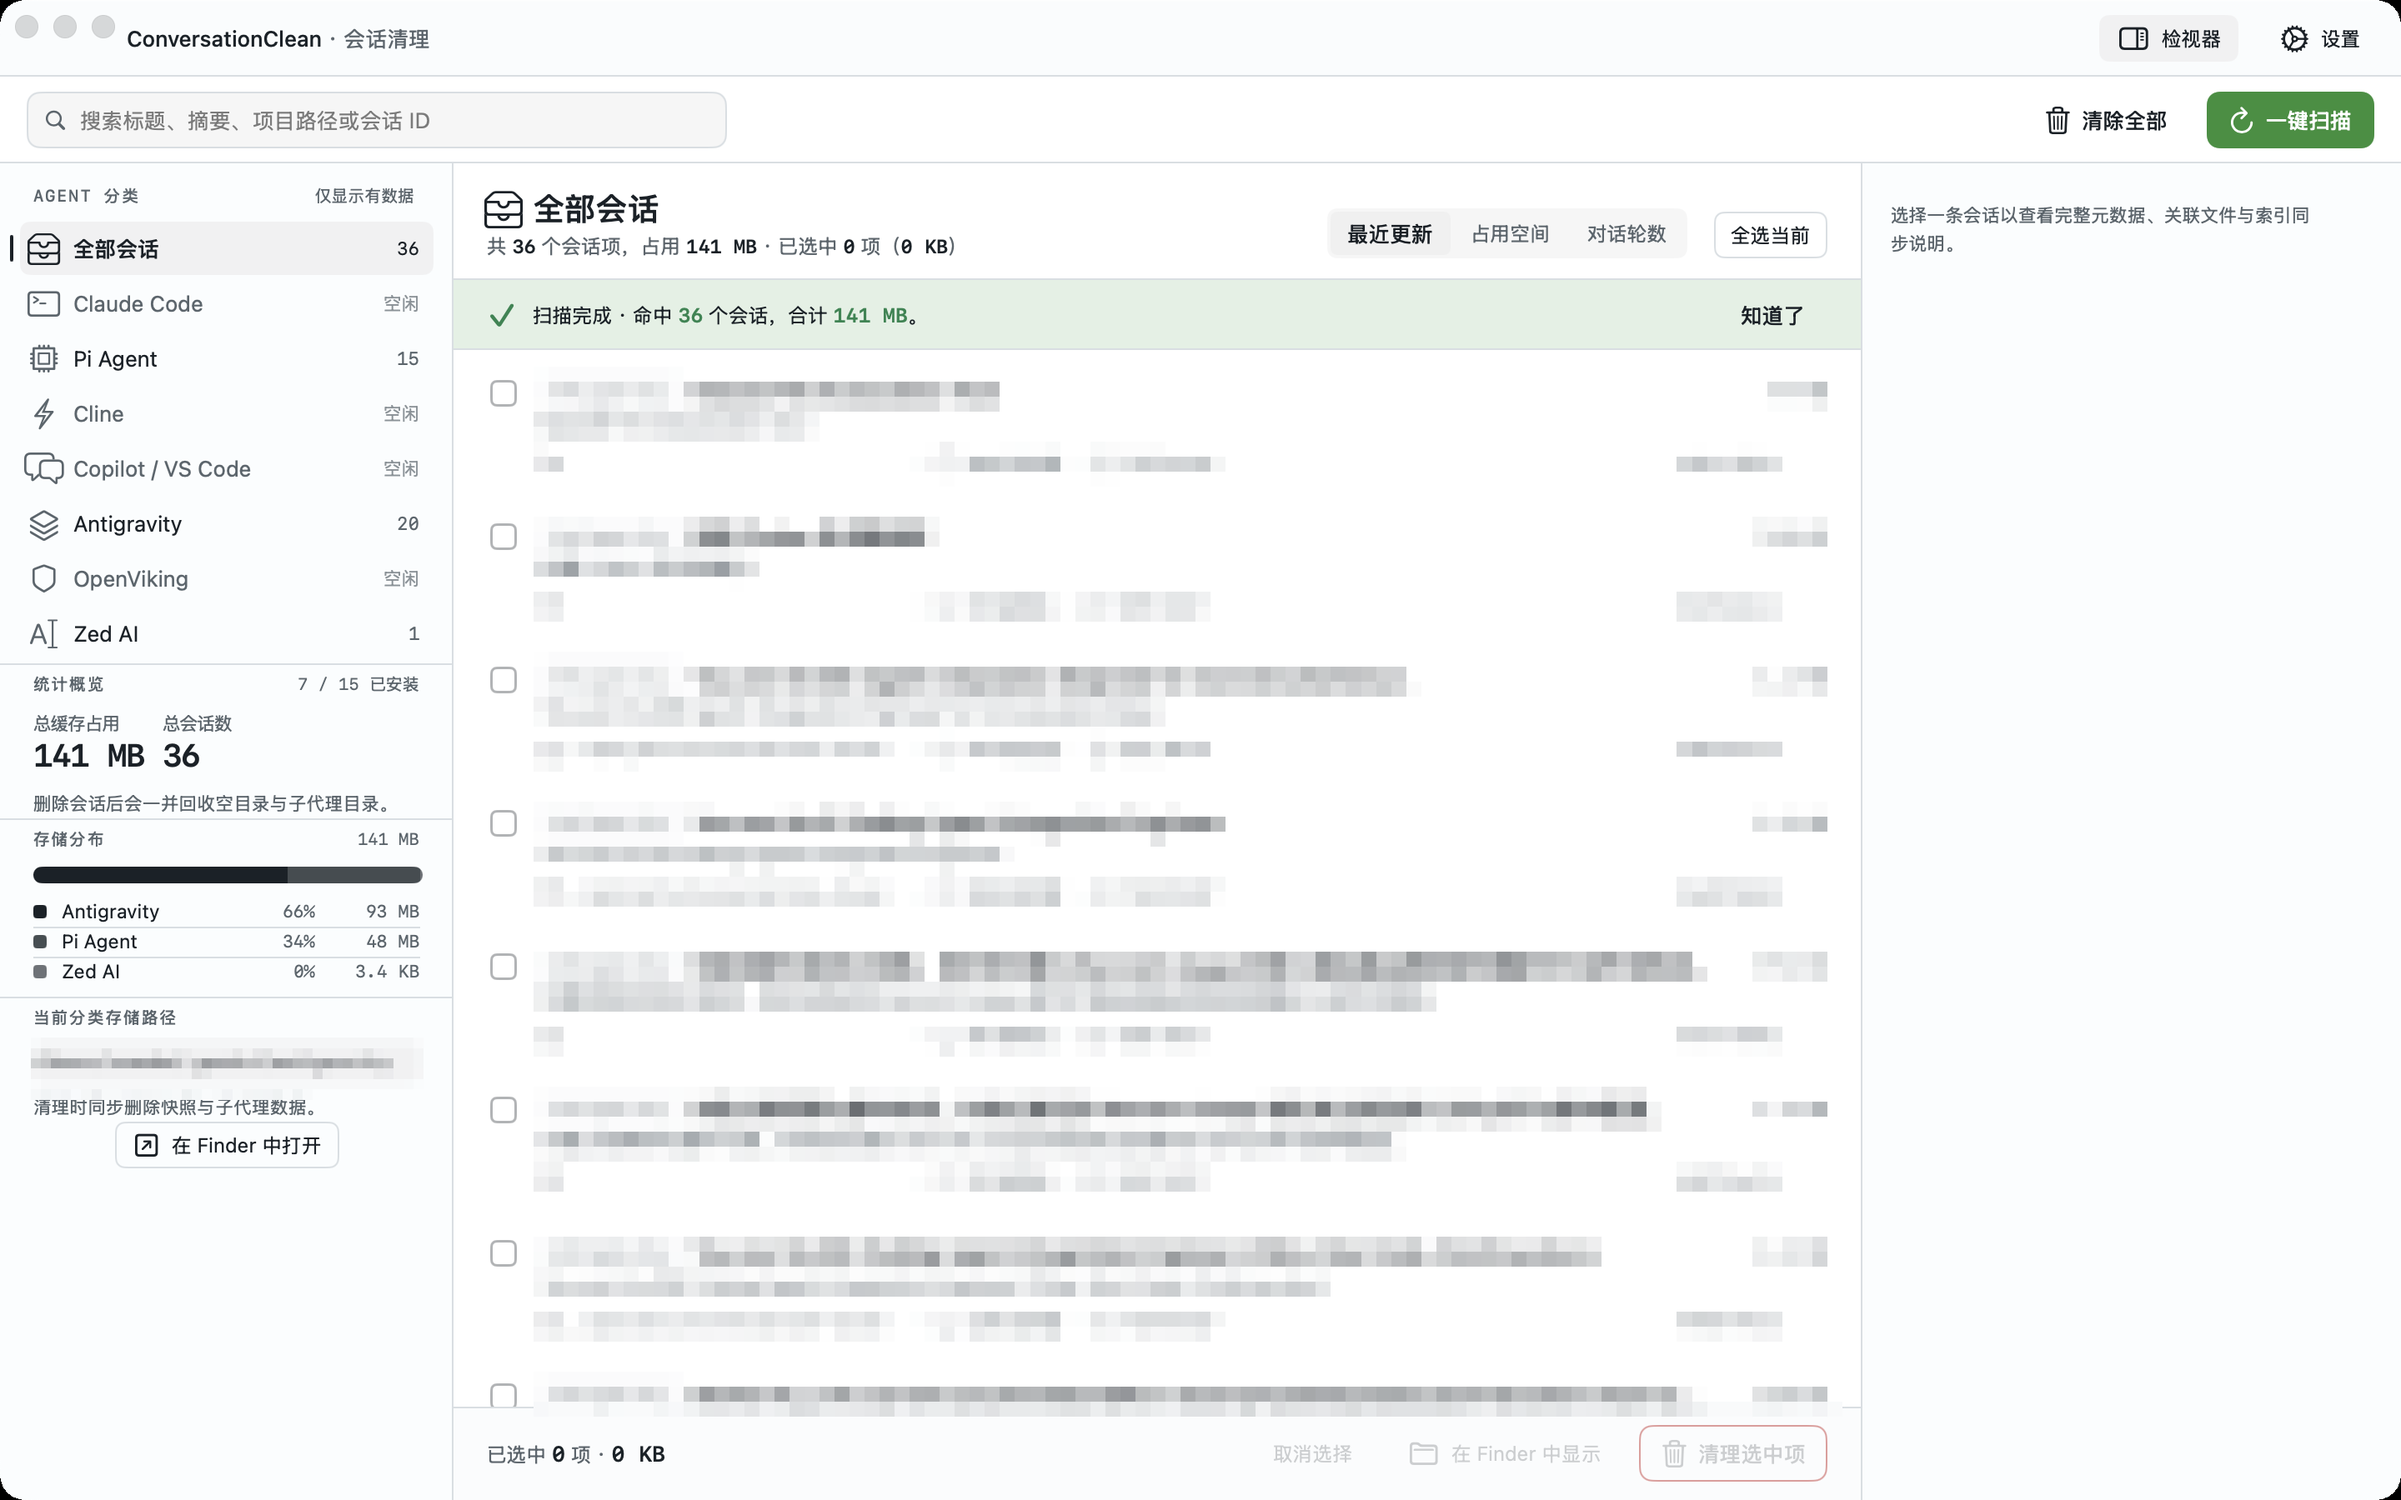
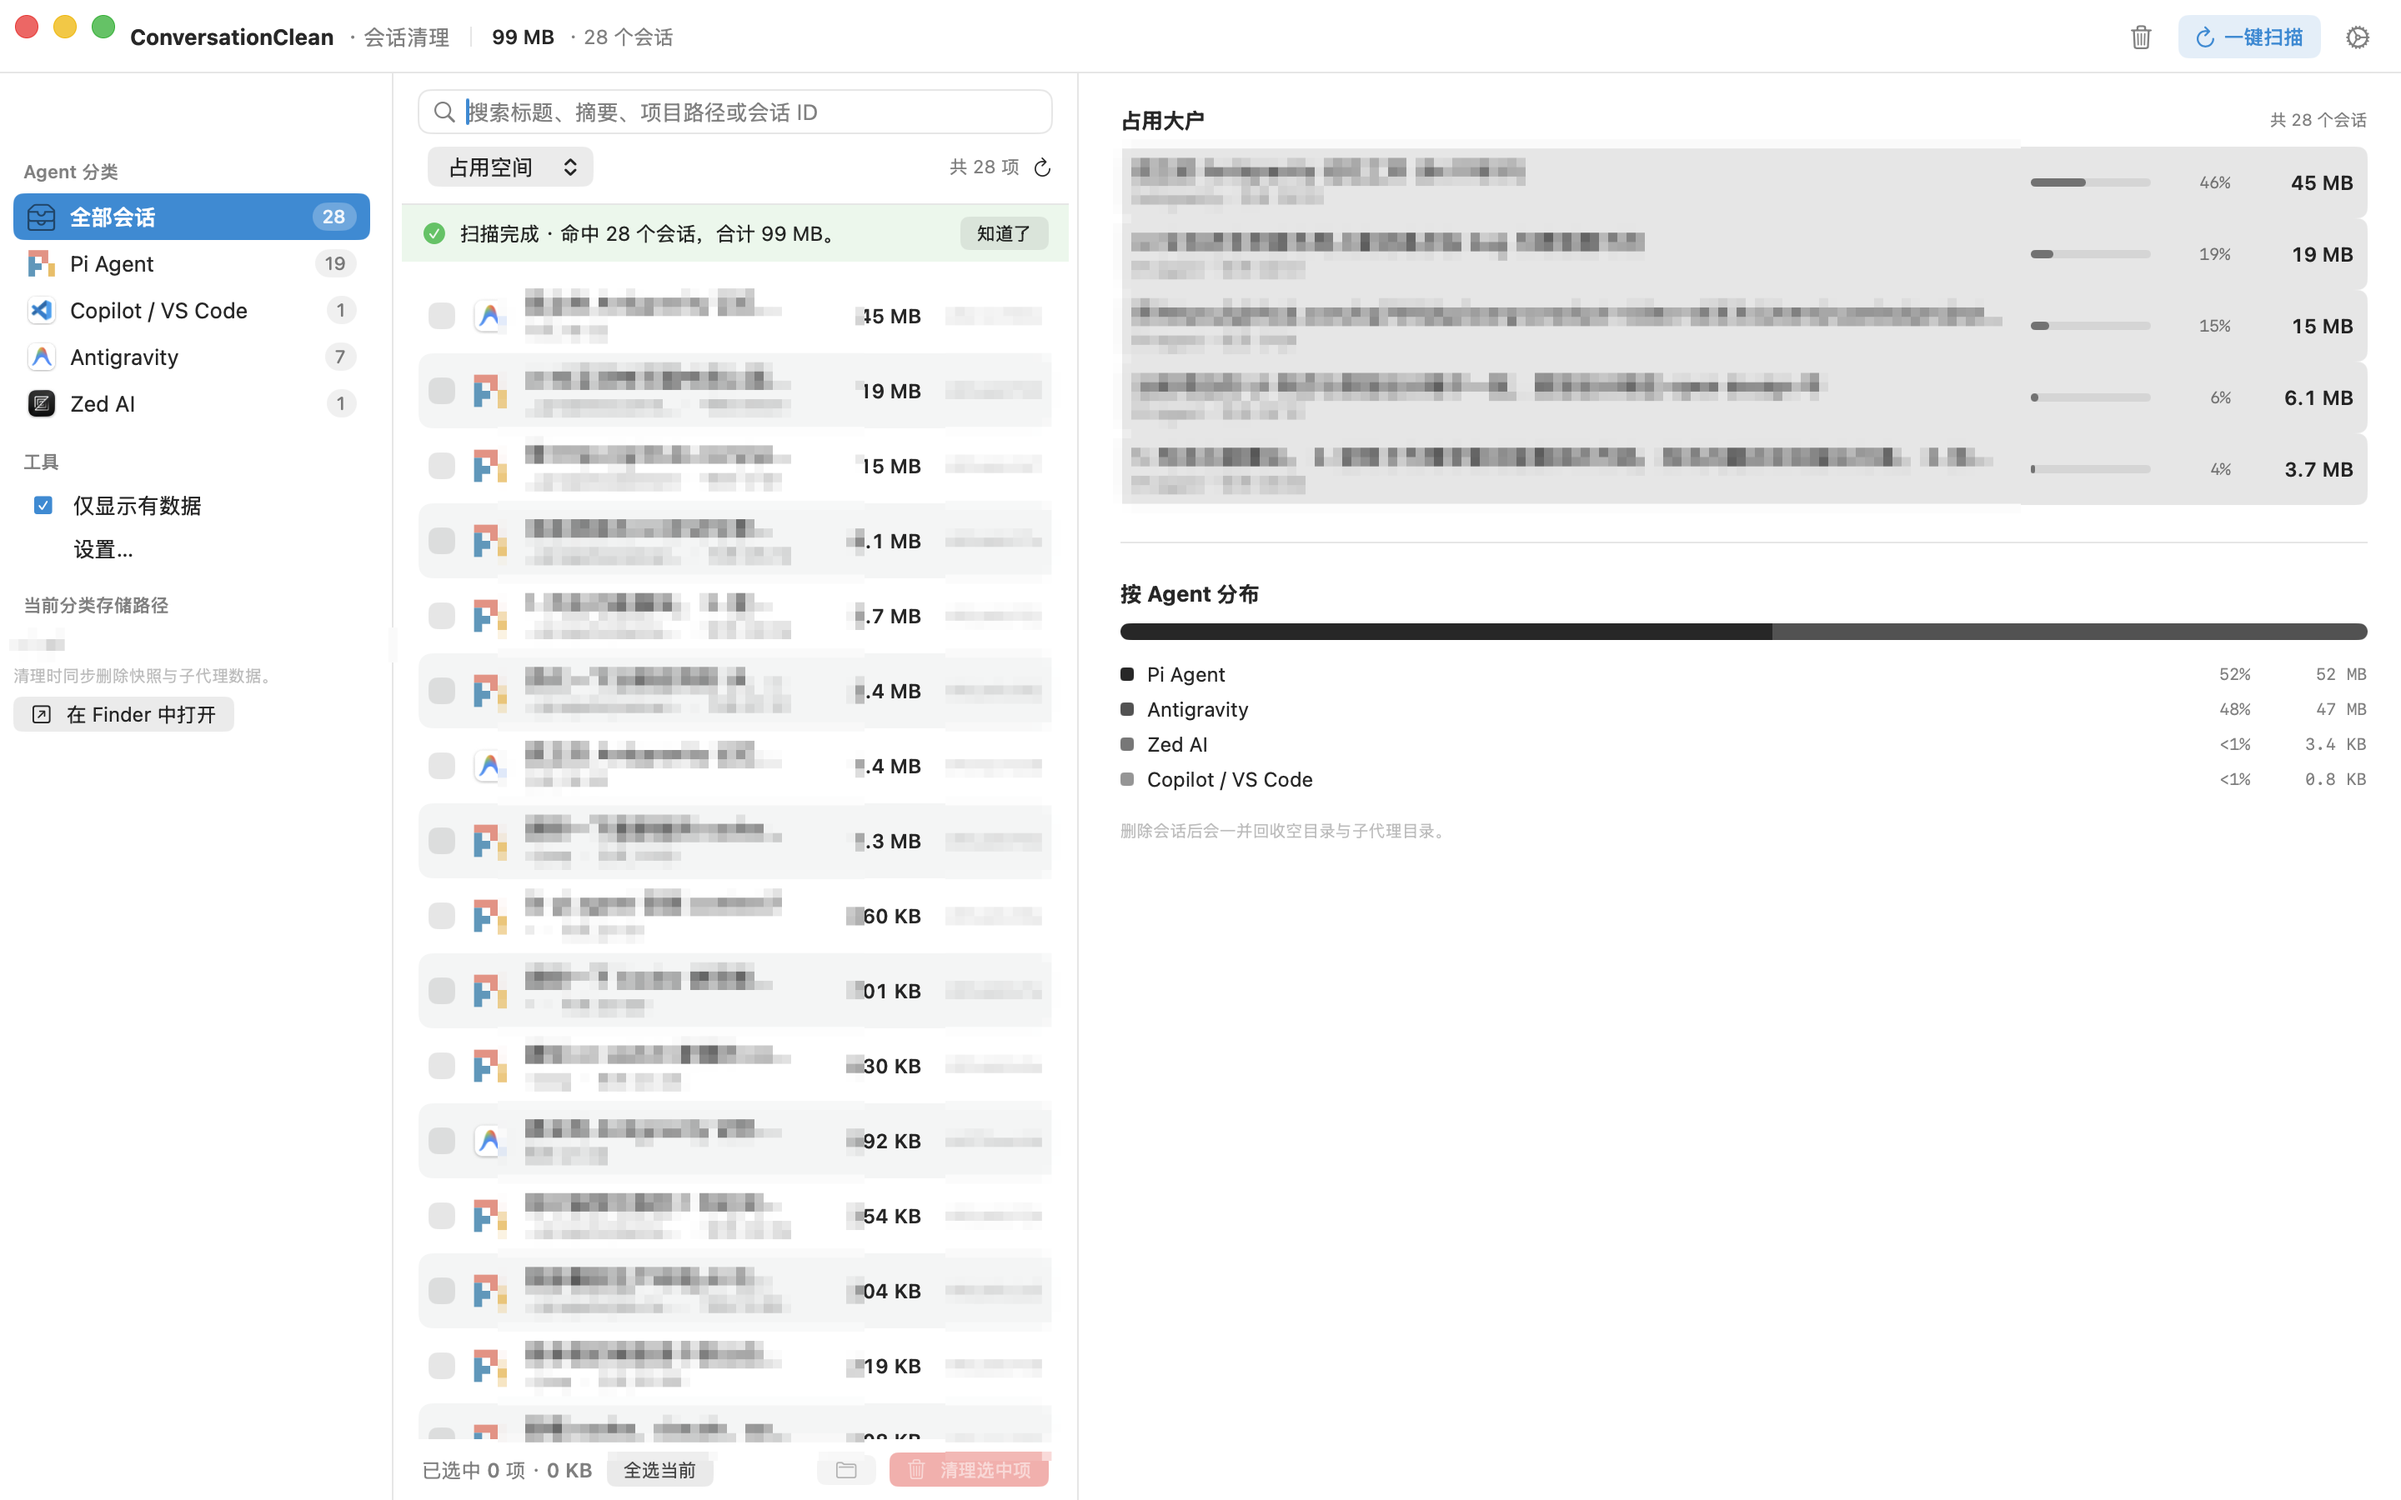
docs: 补新版 README 截图，修掉 NavigationSplitView 的过期描述
重构时把 docs/app-screenshot.png 和它的引用一起删了，界面已面目全非却没有
新截图。重新截一张并打码：会话标题（即首条 user prompt 原文）、项目路径、
会话 ID 全部马赛克；Agent 名称、字节数、占比、相对时间保留 —— 那些正是这张图
要展示的信息，全糊掉就看不出哪款 Agent 占得多。

特性列表里「NavigationSplitView 双栏布局」已不成立：这一版刻意换成
hiddenTitleBar + 手搓三栏（理由见 ContentView 注释：系统标题栏下红黄绿那块颜色
不可控，深色模式永远像贴了块补丁）。按现状改写，并补上可拖拽三栏、键盘快捷键、
语义字体三条。

scripts/mosaic_readme_shot.py 是打码脚本。两个坑记在注释里：
- 坐标以 1100 宽的缩略图为基准再按比例放大，换机器不用重算；
- 每个区域必须用独立临时文件。共用一个路径时，等 magick 真正执行时那个文件
  只剩最后一个区域的内容，于是同一张图被贴到四个不同位置，糊出一片。

diff --git a/scripts/mosaic_readme_shot.py b/scripts/mosaic_readme_shot.py
@@ -1,0 +1,75 @@
+#!/usr/bin/env python3
+"""给 README 截图打码。
+
+坐标以「缩略视图」为基准写（1100 宽），再按实际像素比例放大到 Retina 原图，
+换一台机器、窗口尺寸变一点也不用重算。
+
+打码范围 = 用户真实数据：会话标题（就是首条 user prompt 原文）、项目路径、会话 ID。
+Agent 名称、字节数、相对时间这些留着 —— 它们是这张图要展示的信息本身。
+"""
+import pathlib
+import shutil
+import subprocess
+import sys
+import tempfile
+
+VIEW_W, VIEW_H = 1100, 688  # 缩略基准（本机原图 2880×1800）
+BLOCK = 11                 # 马赛克块边长（最终像素）
+
+# (说明, x0, y0, x1, y1) —— 缩略坐标
+#
+# 只打码真正敏感的三类：会话标题（即首条 user prompt 原文）、项目路径、会话 ID。
+# 刻意**保留**：Agent 名称、字节数、占比、相对时间 —— 这些正是这张图要展示的信息，
+# 全糊掉就看不出「哪款 Agent 占得多」。所以「按 Agent 分布」整块不动，
+# 下面的统计表仍然列出每款 Agent 的名称与字节数。
+#
+# 区域要**给足**：早先按行开 18px 窄带，结果只切掉字形中间一条，
+# 上下半截仍可读（“当前项目的 UI 样式…” 那行就是）。宁可多糊一点。
+REGIONS = [
+    # 右边界 396：再往右就咬到体积列的「45 MB」（相距 4pt，肉眼可见）。
+    ("列表：会话标题 + 项目路径", 228, 128, 396, 670),
+    # 右边界 486：分列条在 489，留 3pt。
+    ("列表：会话 ID", 433, 128, 486, 670),
+    # 只糊路径本身（y 288..304），下面的说明文字不是敏感信息，留着。
+    ("侧栏：当前分类存储路径", 0, 288, 182, 304),
+    # 右边界 926：占比条的圆角左端在 ~929，留 3pt。
+    # 实测 848 时 row 3 的「…/Users/ruanbw/project…」尾巴整段露在外面；
+    # 512 时更糟，整行几乎没糊到。
+    ("详情栏：占用大户 5 行标题 + 副标题", 510, 64, 926, 240),
+]
+
+
+def main() -> None:
+    src, dst = pathlib.Path(sys.argv[1]), pathlib.Path(sys.argv[2])
+    W, H = (int(v) for v in subprocess.run(
+        ["magick", "identify", "-format", "%w %h", str(src)],
+        capture_output=True, text=True, check=True).stdout.split())
+    sx, sy = W / VIEW_W, H / VIEW_H
+
+    args = ["magick", str(src)]
+    tmpdir = pathlib.Path(tempfile.mkdtemp(prefix="ccmos-"))
+    for i, (name, x0, y0, x1, y1) in enumerate(REGIONS):
+        X, Y = round(x0 * sx), round(y0 * sy)
+        w, h = round((x1 - x0) * sx), round((y1 - y0) * sy)
+        if w < 2 or h < 2:
+            print(f"skip (too small): {name}")
+            continue
+        # 每个区域必须用**独立**临时文件：先前所有区域写同一个路径，
+        # 等 args 真正执行时那个文件只剩最后一个区域的内容，
+        # 于是四张相同的图被贴到四个不同位置，糊出一片。
+        tmp = tmpdir / f"mos{i}.png"
+        # 把该区域压到 ~BLOCK 像素宽再放回去 = 经典马赛克，且不可逆
+        subprocess.run(
+            ["magick", str(src), "-crop", f"{w}x{h}+{X}+{Y}", "+repage",
+             "-scale", f"{max(1, w // BLOCK)}x{max(1, h // BLOCK)}!",
+             "-scale", f"{w}x{h}!", str(tmp)], check=True)
+        args += ["(", str(tmp), ")", "-geometry", f"+{X}+{Y}", "-composite"]
+        print(f"mosaic: {name}  {w}x{h}+{X}+{Y}")
+    args.append(str(dst))
+    subprocess.run(args, check=True)
+    shutil.rmtree(tmpdir, ignore_errors=True)
+    print(f"-> {dst}")
+
+
+if __name__ == "__main__":
+    main()

diff --git a/README.md b/README.md
@@ -2,7 +2,7 @@
 
 基于 Swift 6 + SwiftUI 构建的 macOS 原生应用，用于扫描并清理本机各类 AI 编码 Agent / IDE 遗留的会话数据。
 
-<img src="docs/app-screenshot.png" alt="ConversationClean 主界面：左侧为 Agent 分类与缓存统计，中间为会话列表，右侧为选中会话的详情" width="900">
+<img src="docs/app-screenshot.png" alt="ConversationClean 主界面：左侧为 Agent 分类与工具，中间为可搜索、可排序的会话列表，右侧为选中会话的元数据" width="900">
 
 <sub>真实运行截图，会话标题 / 项目路径 / 会话 ID 等内容已做马赛克处理。</sub>
 
@@ -12,7 +12,10 @@
 
 - **15 款 Agent 全覆盖**：统一 `AgentScanner` 协议接入 CLI Agent（Claude Code、Codex、Pi Agent、Cline、Roo Code、Continue.dev、OpenViking、Aider、Zed AI、OpenHands）与 VS Code 系 IDE（VS Code Chat、Cursor、Windsurf、Trae、Antigravity）。
 - **双层索引原子清理**：对同时维护「会话文件 + SQLite 索引」的 Agent（VS Code 系 `state.vscdb`、Pi Agent context-mode），删除会话时同步清理索引，避免幽灵会话残留。
-- **现代 macOS 设计规范**：`NavigationSplitView` 双栏布局、统一工具栏、原生 SF Symbols 图标体系。
+- **macOS 原生观感**：隐藏标题栏 + 手搓三栏（`ContentView`），红黄绿浮在自有背景上，深浅色自动跟随；系统 `Form` / `Toggle` / `List` 承载设置与列表，不再自绘控件。
+- **可拖拽三栏**：两条分隔条可拖动并记忆列宽（`@AppStorage`），上限随窗口宽度动态收窄，缩窗口不会把三栏挤变形。
+- **键盘可达**：⌘R 扫描、⌘Delete 清理、⌘F 聚焦搜索、Esc 逐级清空（先清搜索词，再清勾选）。
+- **语义字体**：正文全部走 `.body` / `.callout` / `.caption` 等语义字体，系统字号设置下会一起缩放；仅 SF Symbol 图标保留按框计算的固定字号。
 - **清晰的 MVVM 架构**：`Models/` 数据模型、`ViewModels/` 状态管理、`Views/` 界面组件。
 - **并发扫描**：`AgentScanService` 通过 `withTaskGroup` 并发调度全部扫描器。
 - **标准 Xcode 工程**：自带完整的 `ConversationClean.xcodeproj` 与共享构建 Scheme。
